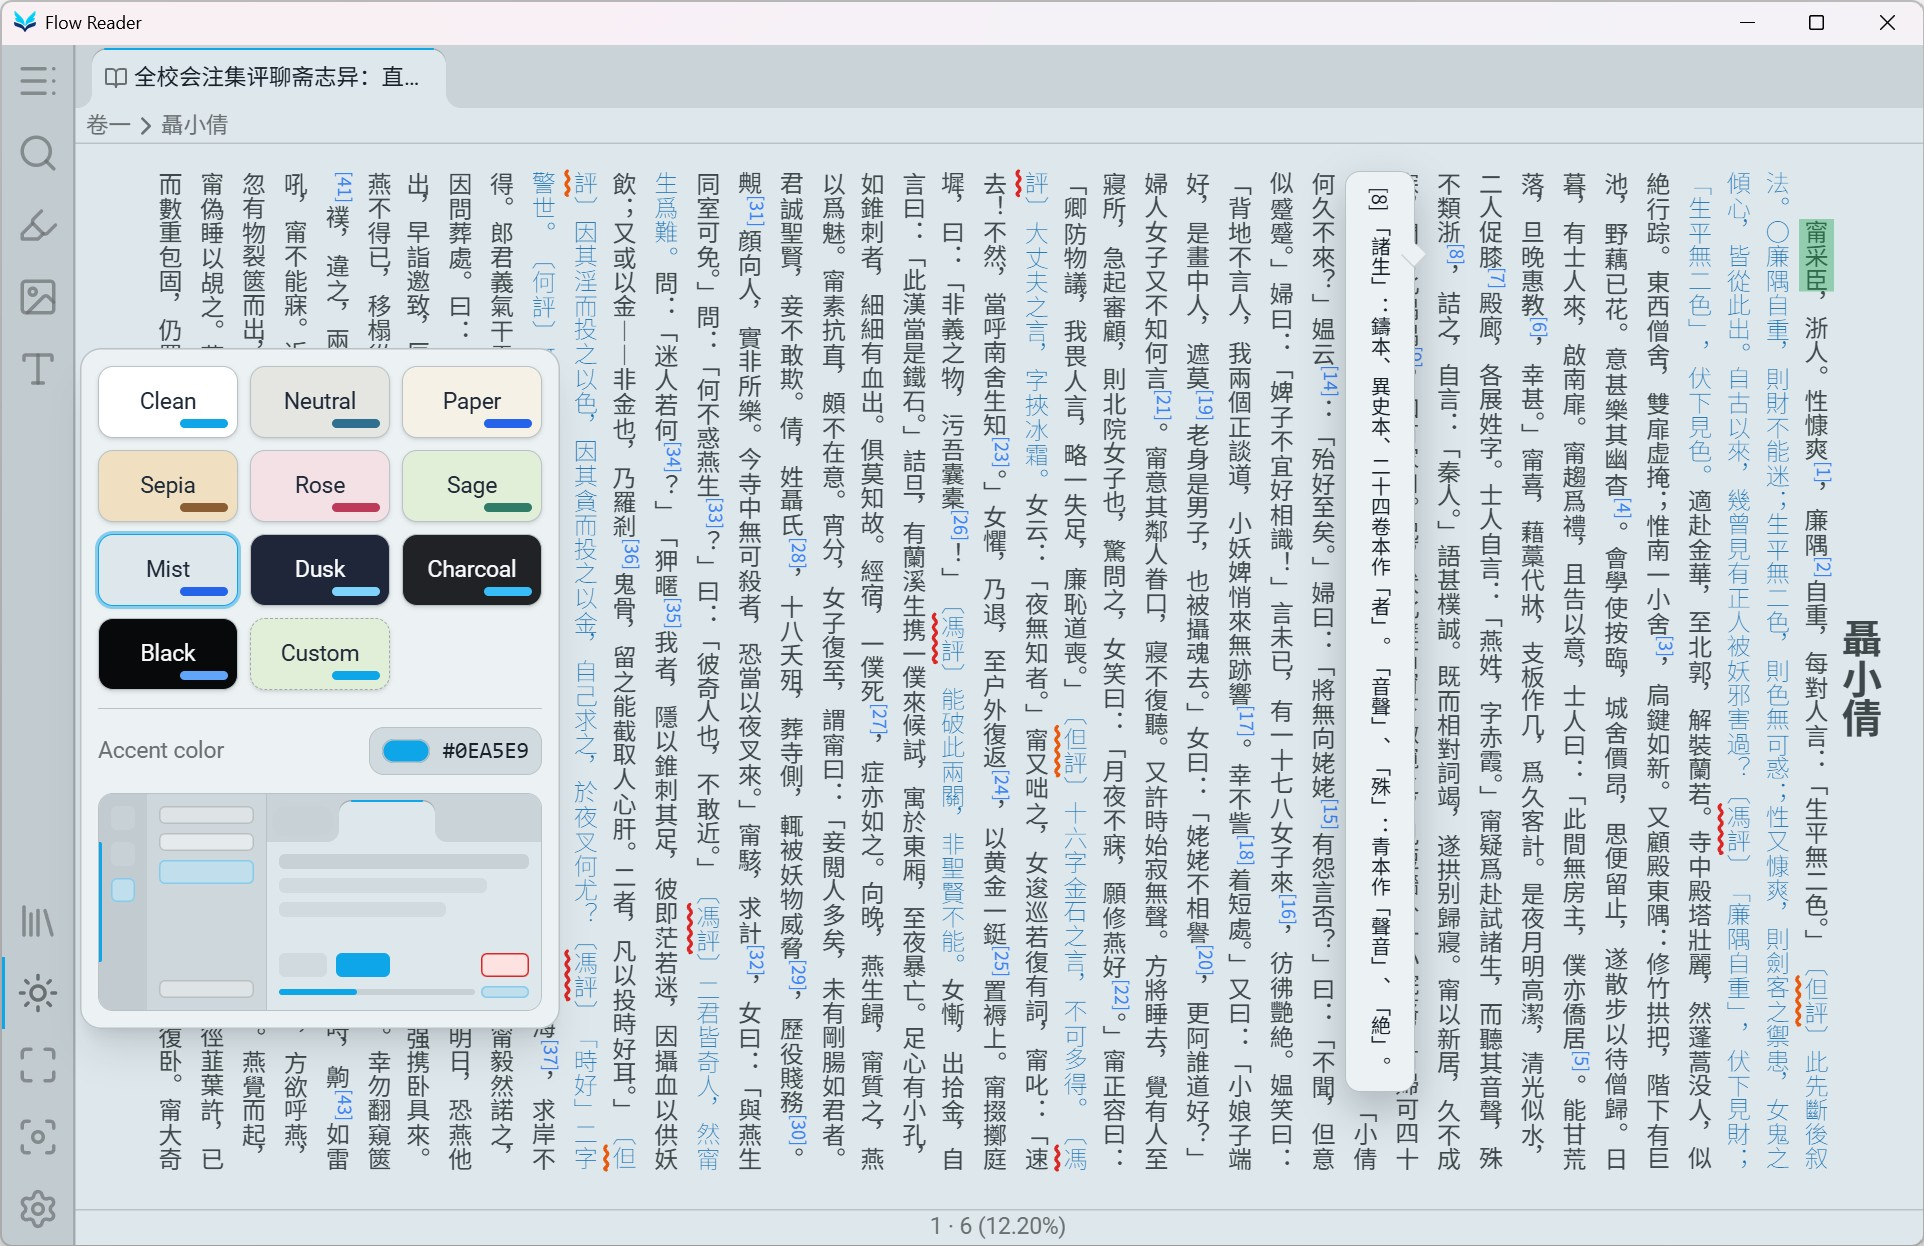
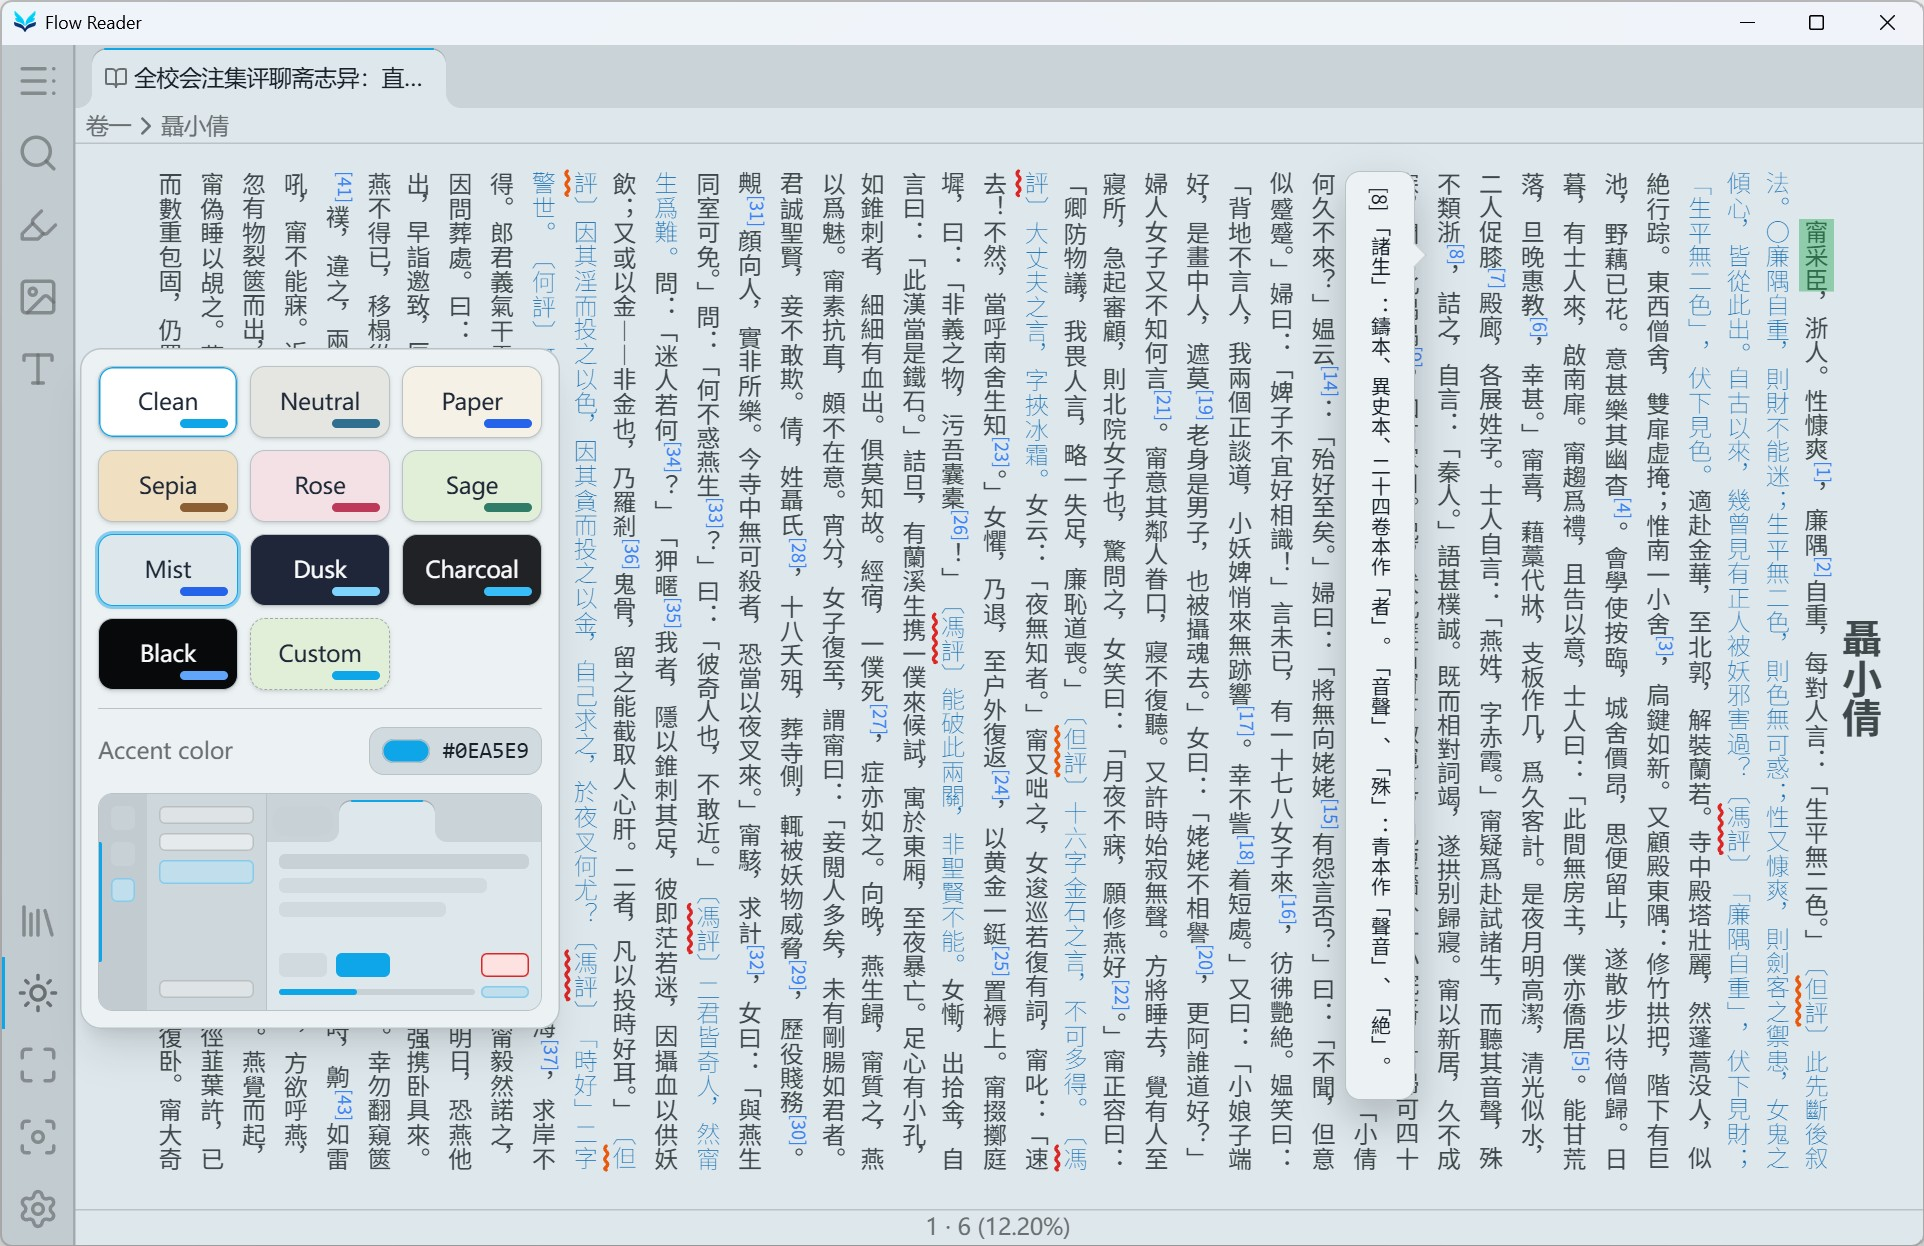
fix: correct vertical note popover arrow border

diff --git a/src/components/reader/NotePopover.tsx b/src/components/reader/NotePopover.tsx
@@ -132,7 +132,7 @@ export const NotePopover: React.FC<NotePopoverProps> = ({ popover, onClose }) =>
               ? '1px solid var(--flow-border)'
               : undefined,
           borderBottom:
-            placement.side === 'left' || (!placement.side && placement.placeAbove)
+            placement.side === 'right' || (!placement.side && placement.placeAbove)
               ? '1px solid var(--flow-border)'
               : undefined,
           borderLeft:
@@ -140,7 +140,7 @@ export const NotePopover: React.FC<NotePopoverProps> = ({ popover, onClose }) =>
               ? '1px solid var(--flow-border)'
               : undefined,
           borderTop:
-            placement.side === 'right' || (!placement.side && !placement.placeAbove)
+            placement.side === 'left' || (!placement.side && !placement.placeAbove)
               ? '1px solid var(--flow-border)'
               : undefined,
           transform: 'rotate(45deg)',
